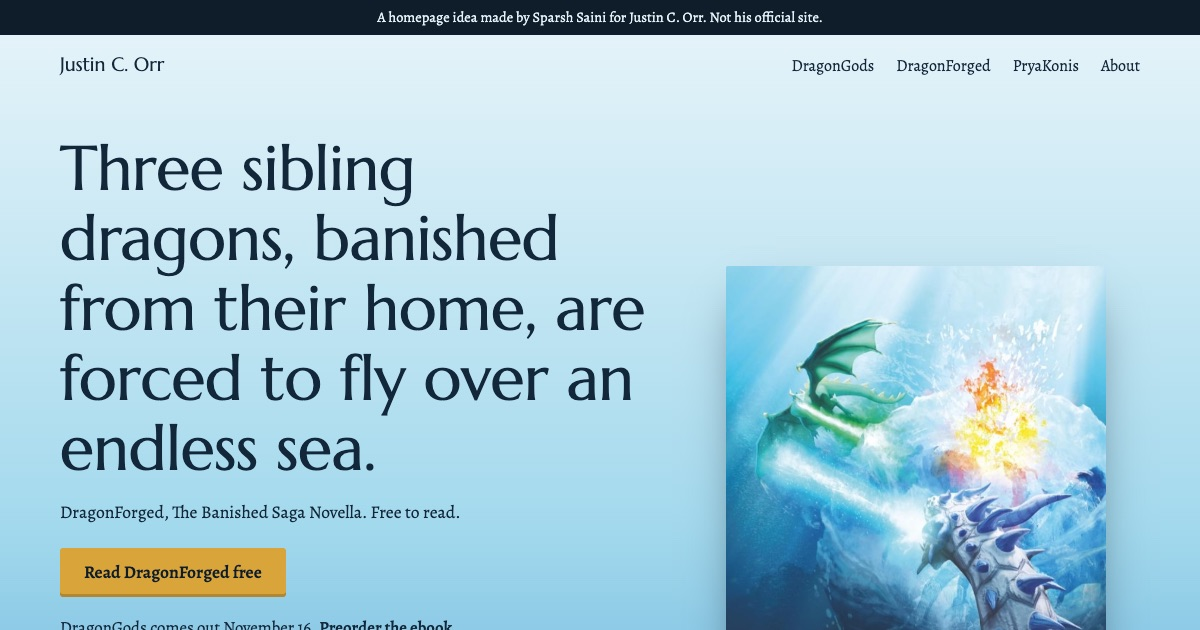
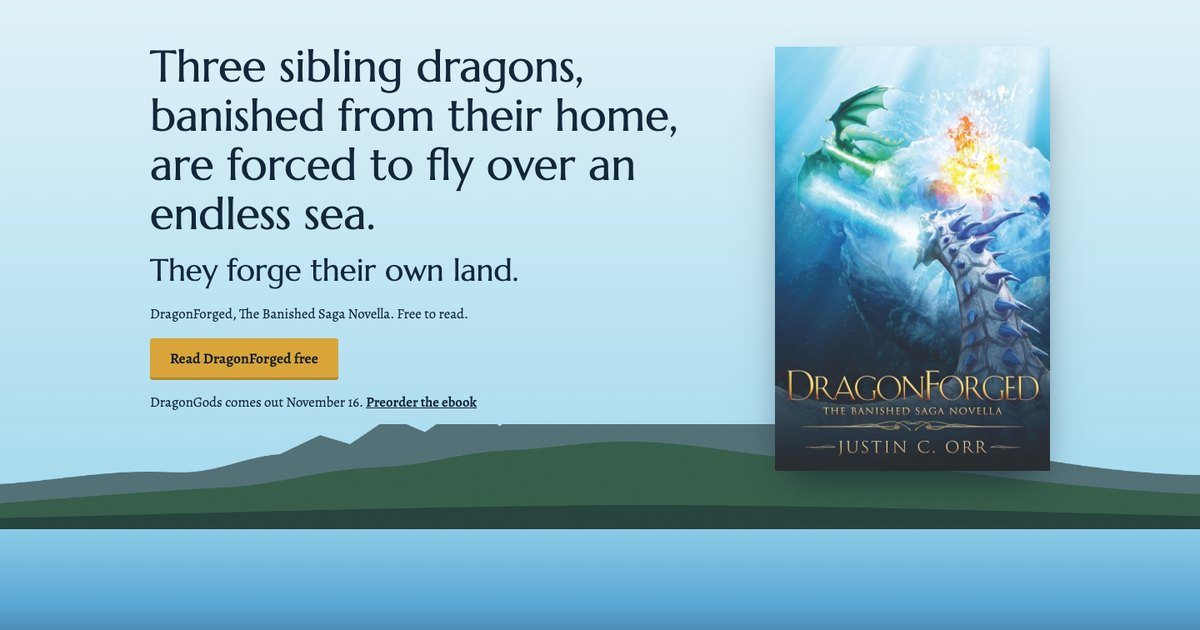
Add scroll moment

diff --git a/index.html b/index.html
@@ -13,6 +13,7 @@
 <meta property="og:image:height" content="630">
 <meta property="og:type" content="website">
 <link rel="icon" href="data:,">
+<script>if(!matchMedia('(prefers-reduced-motion: reduce)').matches)document.documentElement.classList.add('js')</script>
 <link rel="preconnect" href="https://fonts.googleapis.com">
 <link rel="preconnect" href="https://fonts.gstatic.com" crossorigin>
 <link href="https://fonts.googleapis.com/css2?family=Marcellus&family=Alegreya:ital,wght@0,400;0,600;1,400&display=swap" rel="stylesheet">
@@ -50,24 +51,45 @@ p { margin: 0 0 1em; }
 .bar nav a { text-decoration: none; }
 .bar nav a:hover { text-decoration: underline; }
 
-/* 1. sky over the endless sea */
-.hero { background: linear-gradient(180deg, var(--ice) 0%, var(--sky) 58%, var(--sea) 100%); }
-.hero .grid { display: grid; gap: 28px; padding: 12px 0 0; }
-.hero h1 { font-size: clamp(2rem, 8.4vw, 3.9rem); letter-spacing: -.005em; }
-.hero .by { margin: 14px 0 22px; font-size: 1.1rem; }
+/* 1. the flight: pinned hero, JS writes scroll progress to --p */
+.hero { --p: 1; position: relative; }
+.js .hero { --p: 0; height: 340svh; }
+.hero {
+  --f: clamp(0, calc((var(--p) - .52) / .16), 1);
+  --l: clamp(0, calc((var(--p) - .5) / .3), 1);
+  --c: clamp(0, calc((var(--p) - .78) / .17), 1);
+}
+.stage { --hz: 72%; position: sticky; top: 0; height: 100svh; min-height: 36rem; overflow: hidden;
+  background: linear-gradient(180deg, var(--ice) 0%, var(--sky) calc(var(--hz) - .4%), #8ccbe6 var(--hz), var(--sea) calc(var(--hz) + 10%), var(--deep) 100%); }
+.stage .wrap { position: relative; z-index: 3; }
+.hero h1 { font-size: clamp(2rem, 8.4vw, 3.3rem); max-width: 15em; margin-top: 8px; }
+.forge { font-family: "Marcellus", serif; font-size: clamp(1.5rem, 5.4vw, 2.3rem); line-height: 1.15; margin: 16px 0 0;
+  opacity: var(--f); transform: translateY(calc(18px - 18px * var(--f))); }
+.final { margin-top: 18px; opacity: var(--c); transform: translateY(calc(24px - 24px * var(--c))); }
+.final .by { margin: 0 0 16px; font-size: 1.05rem; }
 .btn { display: inline-block; font: 600 1.1rem/1 "Alegreya", serif; padding: 16px 24px; border-radius: 3px; text-decoration: none; min-height: 48px; }
 .btn.gold { background: var(--gold); color: var(--abyss); box-shadow: inset 0 -3px 0 rgba(0,0,0,.18); }
 .btn.gold:hover { background: #e8b84d; }
 .btn.ember { background: var(--ember); color: var(--abyss); }
 .btn.ember:hover { background: #ef7c40; }
-.next-line { margin: 18px 0 0; font-size: 1.05rem; }
+.next-line { margin: 14px 0 0; font-size: 1.05rem; }
 .next-line a { font-weight: 600; }
-.hero .cover { justify-self: center; width: min(78%, 360px); position: relative; margin-bottom: -60px; z-index: 2; }
+.landbox { position: absolute; left: 0; right: 0; bottom: calc(100% - var(--hz)); height: 13%; overflow: hidden; z-index: 1; }
+.landbox img { width: 100%; height: 100%; object-fit: cover; object-position: 50% 100%; max-width: none;
+  transform: translateY(calc(100% - 100% * var(--l))); will-change: transform; }
+.dragon { position: absolute; top: var(--hz); left: var(--x); width: min(44vw, 540px); z-index: 2; pointer-events: none; will-change: transform;
+  --d: clamp(0, calc((var(--p) - var(--s)) / .44), 1);
+  transform: translate(-50%, -50%) translate(calc(var(--dx) * var(--d)), calc(var(--d) * var(--d) * -150svh)) scale(calc(.05 + var(--d) * var(--d) * 2.6)); }
+.d1 { --x: 52%; --dx: -30vw; --s: .02; }
+.d2 { --x: 57%; --dx: 26vw; --s: .12; }
+.d3 { --x: 47%; --dx: -2vw; --s: .22; }
+.hero .cover { position: absolute; z-index: 3; right: 16px; bottom: 20px; width: 44vw; max-width: 340px;
+  opacity: var(--c); transform: translateY(calc(40px - 40px * var(--c))); will-change: transform, opacity; }
 .hero .cover img { box-shadow: 0 24px 50px -18px rgba(15,29,42,.7); border-radius: 2px; }
-.horizon { height: 120px; background: linear-gradient(180deg, var(--sea), var(--deep)); border-top: 2px solid var(--gold); }
+@media (prefers-reduced-motion: reduce) { .dragon { display: none; } }
 
 /* 2. DragonGods, November 16 */
-.release { background: var(--deep); color: var(--ice); padding: 20px 0 72px; margin-top: -60px; }
+.release { background: var(--deep); color: var(--ice); padding: 56px 0 72px; }
 .release .date { font-family: "Marcellus", serif; color: var(--ember); font-size: clamp(3.4rem, 16vw, 7.5rem); line-height: .95; margin: 0 0 10px; }
 .release h2 { font-size: clamp(1.8rem, 6vw, 2.8rem); margin-bottom: 18px; }
 .release blockquote { margin: 0 0 22px; padding-left: 16px; border-left: 2px solid var(--gold); font-style: italic; font-size: 1.2rem; max-width: 34em; }
@@ -114,10 +136,11 @@ footer p a { color: var(--ice); }
 
 @media (min-width: 820px) {
   .bar nav { display: flex; }
-  .hero .grid { grid-template-columns: 1.15fr .85fr; align-items: end; padding-top: 40px; }
-  .hero .text { padding-bottom: 120px; }
-  .hero .cover { width: 100%; max-width: 380px; margin-bottom: -90px; }
-  .release { margin-top: -90px; padding-top: 40px; }
+  .stage { --hz: 75%; }
+  .landbox { height: 14%; }
+  .stage .text { max-width: 640px; padding-top: 24px; }
+  .hero .cover { right: max(20px, calc(50% - 540px)); top: 96px; bottom: auto; width: 30vw; max-width: 330px; }
+  .release { padding-top: 80px; }
   .release .grid { display: grid; grid-template-columns: auto 1fr; gap: 48px; align-items: start; }
   .book .grid { grid-template-columns: 1fr 240px; gap: 64px; align-items: start; }
   .world { padding: 120px 0; }
@@ -130,29 +153,35 @@ footer p a { color: var(--ice); }
 
 <main>
 <section class="hero" id="top">
-  <div class="wrap">
-    <header class="bar">
-      <a class="name" href="#top">Justin C. Orr</a>
-      <nav aria-label="Main">
-        <a href="#dragongods">DragonGods</a>
-        <a href="#dragonforged">DragonForged</a>
-        <a href="#pryakonis">PryaKonis</a>
-        <a href="#about">About</a>
-      </nav>
-    </header>
-    <div class="grid">
+  <div class="stage">
+    <div class="landbox" aria-hidden="true"><img src="img/land.png" width="2400" height="420" alt=""></div>
+    <img class="dragon d1" src="img/dragon-green.png" width="800" height="520" alt="" aria-hidden="true">
+    <img class="dragon d2" src="img/dragon-silver.png" width="800" height="520" alt="" aria-hidden="true">
+    <img class="dragon d3" src="img/dragon-ember.png" width="800" height="520" alt="" aria-hidden="true">
+    <div class="wrap">
+      <header class="bar">
+        <a class="name" href="#top">Justin C. Orr</a>
+        <nav aria-label="Main">
+          <a href="#dragongods">DragonGods</a>
+          <a href="#dragonforged">DragonForged</a>
+          <a href="#pryakonis">PryaKonis</a>
+          <a href="#about">About</a>
+        </nav>
+      </header>
       <div class="text">
         <h1>Three sibling dragons, banished from their home, are forced to fly over an endless sea.</h1>
-        <p class="by">DragonForged, The Banished Saga Novella. Free to read.</p>
-        <a class="btn gold" href="https://linktr.ee/brightfantasybooks">Read DragonForged free</a>
-        <p class="next-line">DragonGods comes out November 16. <a href="#dragongods">Preorder the ebook</a></p>
-      </div>
-      <div class="cover">
-        <img src="img/cover-640.jpg" srcset="img/cover-640.jpg 640w, img/cover-1000.jpg 1000w" sizes="(min-width: 820px) 380px, 78vw" width="640" height="989" alt="The cover of DragonForged: a green dragon above an icy sea and a spiked blue-silver dragon breathing fire below.">
+        <p class="forge">They forge their own land.</p>
+        <div class="final">
+          <p class="by">DragonForged, The Banished Saga Novella. Free to read.</p>
+          <a class="btn gold" href="https://linktr.ee/brightfantasybooks">Read DragonForged free</a>
+          <p class="next-line">DragonGods comes out November 16. <a href="#dragongods">Preorder the ebook</a></p>
+        </div>
       </div>
     </div>
+    <div class="cover">
+      <img src="img/cover-640.jpg" srcset="img/cover-640.jpg 640w, img/cover-1000.jpg 1000w" sizes="(min-width: 820px) 330px, 44vw" width="640" height="989" alt="The cover of DragonForged: a green dragon above an icy sea and a spiked blue-silver dragon breathing fire below.">
+    </div>
   </div>
-  <div class="horizon" aria-hidden="true"></div>
 </section>
 
 <section class="release" id="dragongods">
@@ -225,5 +254,22 @@ footer p a { color: var(--ice); }
     <p class="note">A mockup made by Sparsh Saini for Justin C. Orr. Not affiliated, not live. The cover and words are his.</p>
   </div>
 </footer>
+<script>
+(() => {
+  const hero = document.querySelector('.hero');
+  if (!hero || !document.documentElement.classList.contains('js')) return;
+  let ticking = false, top = 0, t = 1;
+  const measure = () => { top = hero.offsetTop; t = Math.max(1, hero.offsetHeight - innerHeight); update(); };
+  const update = () => {
+    ticking = false;
+    const p = Math.min(1, Math.max(0, (scrollY - top) / t));
+    hero.style.setProperty('--p', p.toFixed(4));
+  };
+  addEventListener('scroll', () => { if (!ticking) { ticking = true; requestAnimationFrame(update); } }, { passive: true });
+  addEventListener('resize', measure);
+  addEventListener('load', measure);
+  measure();
+})();
+</script>
 </body>
 </html>
